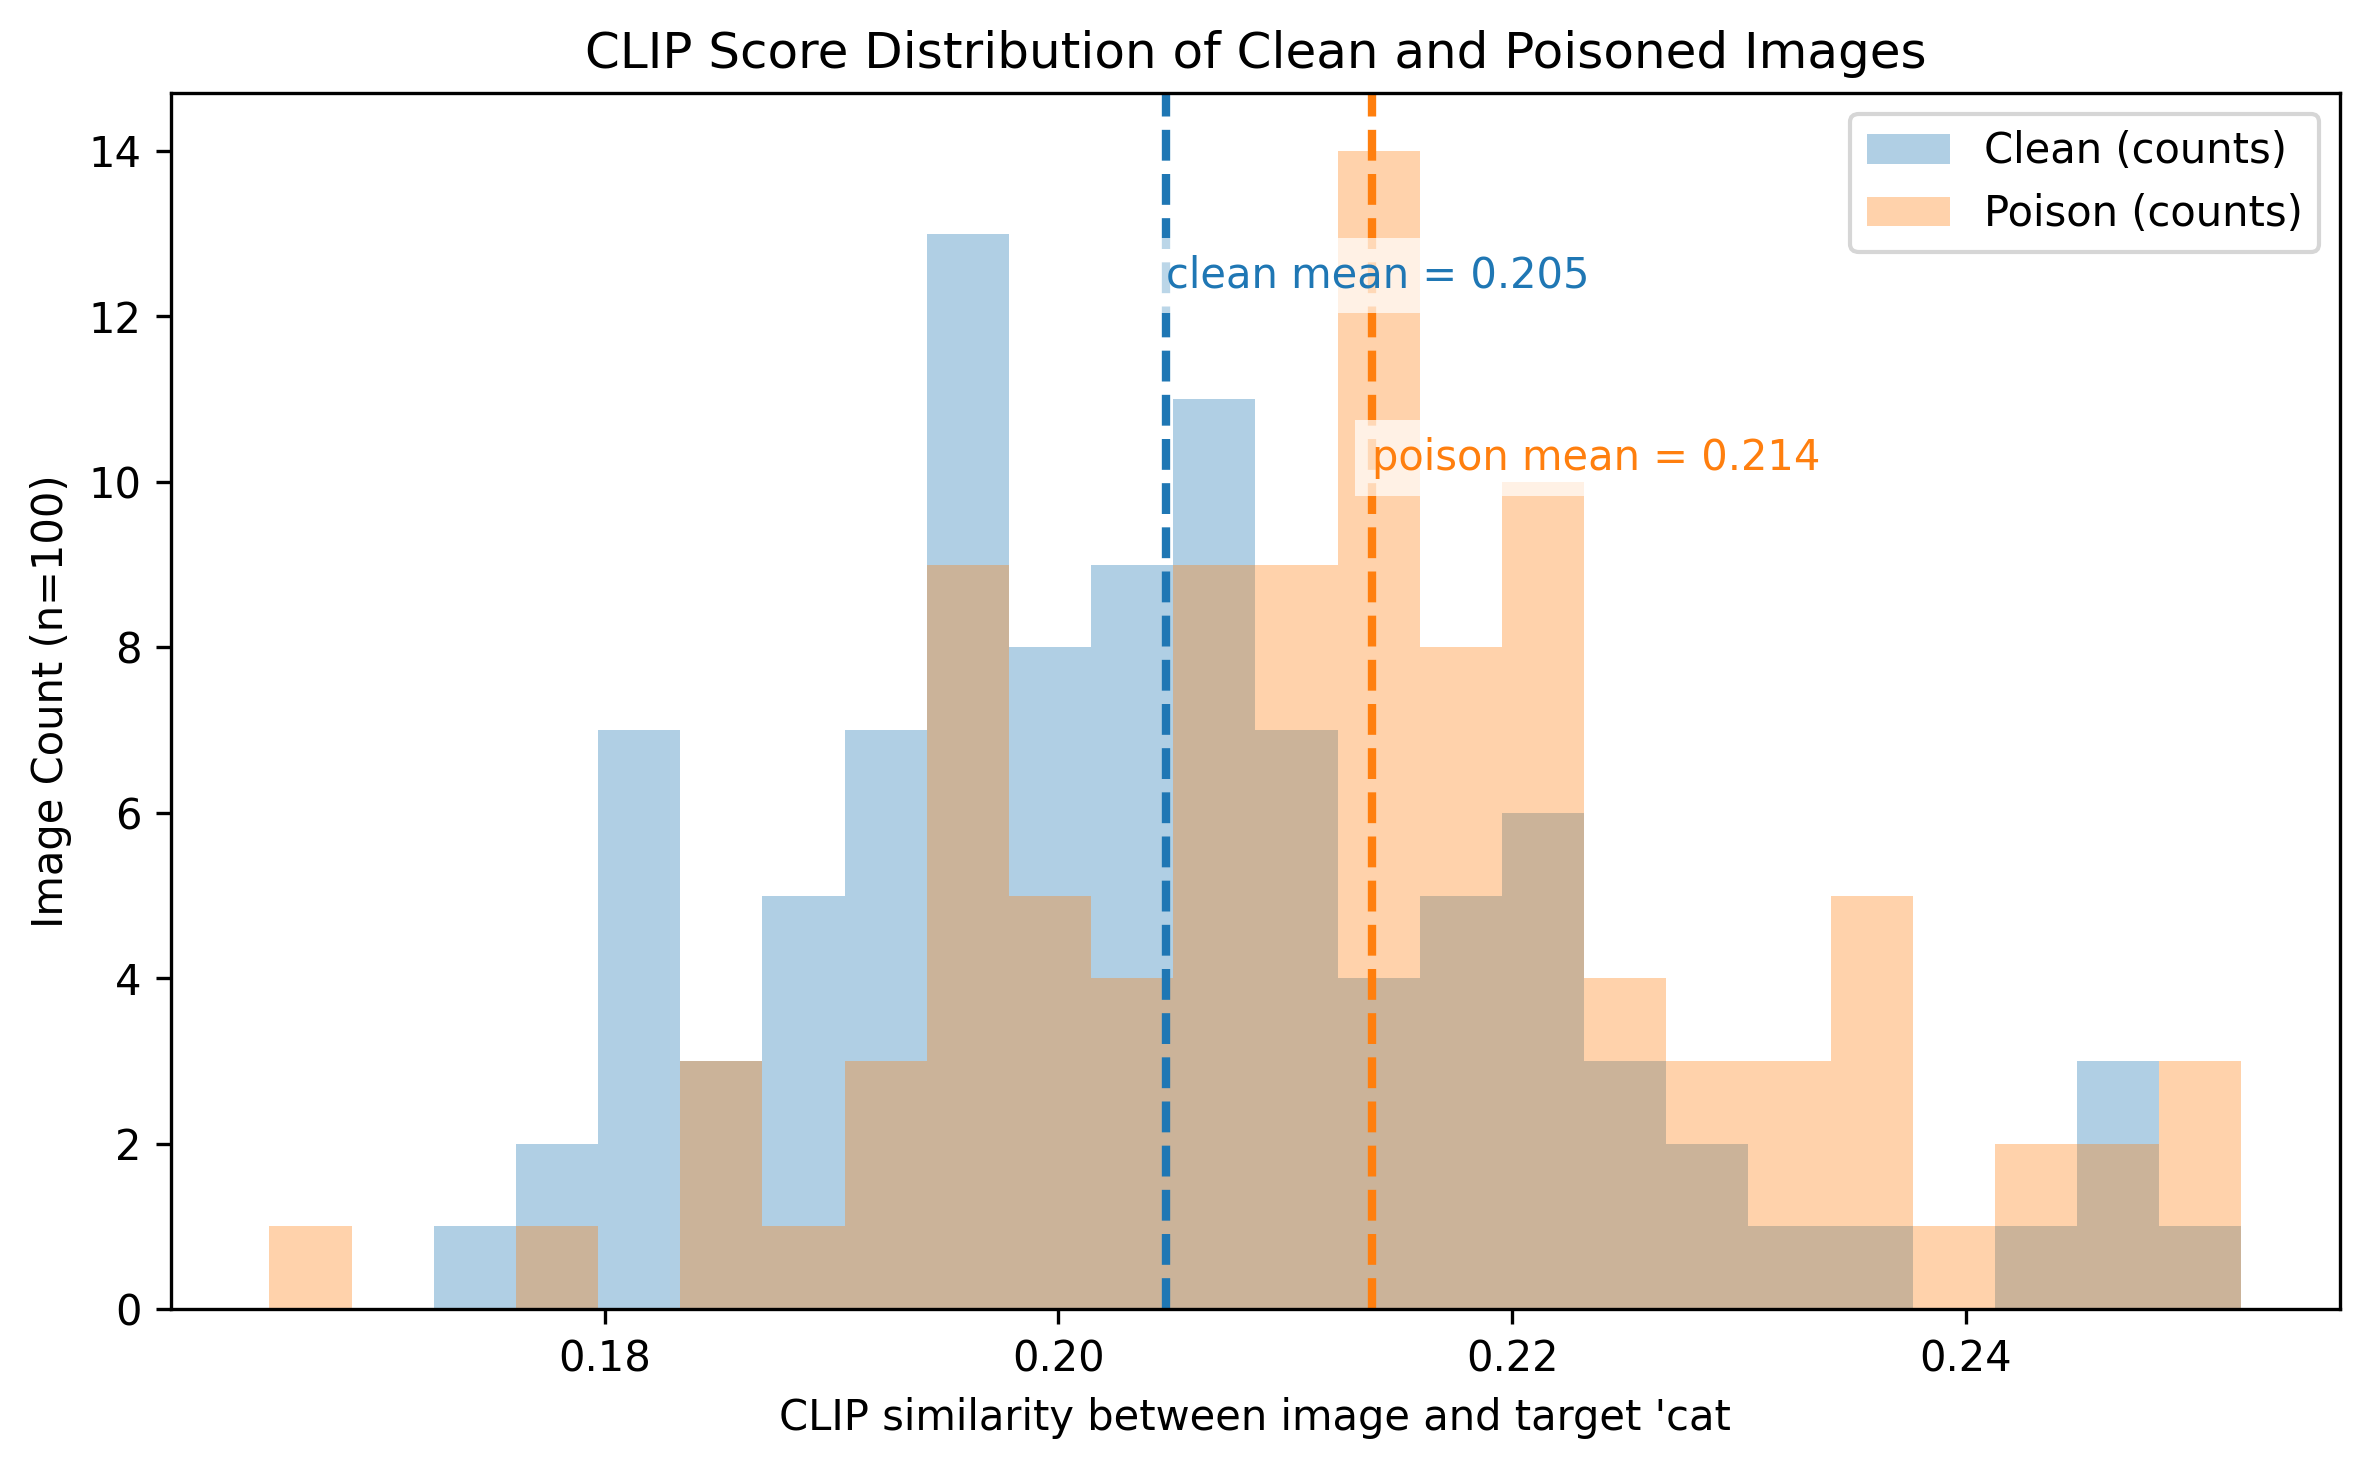
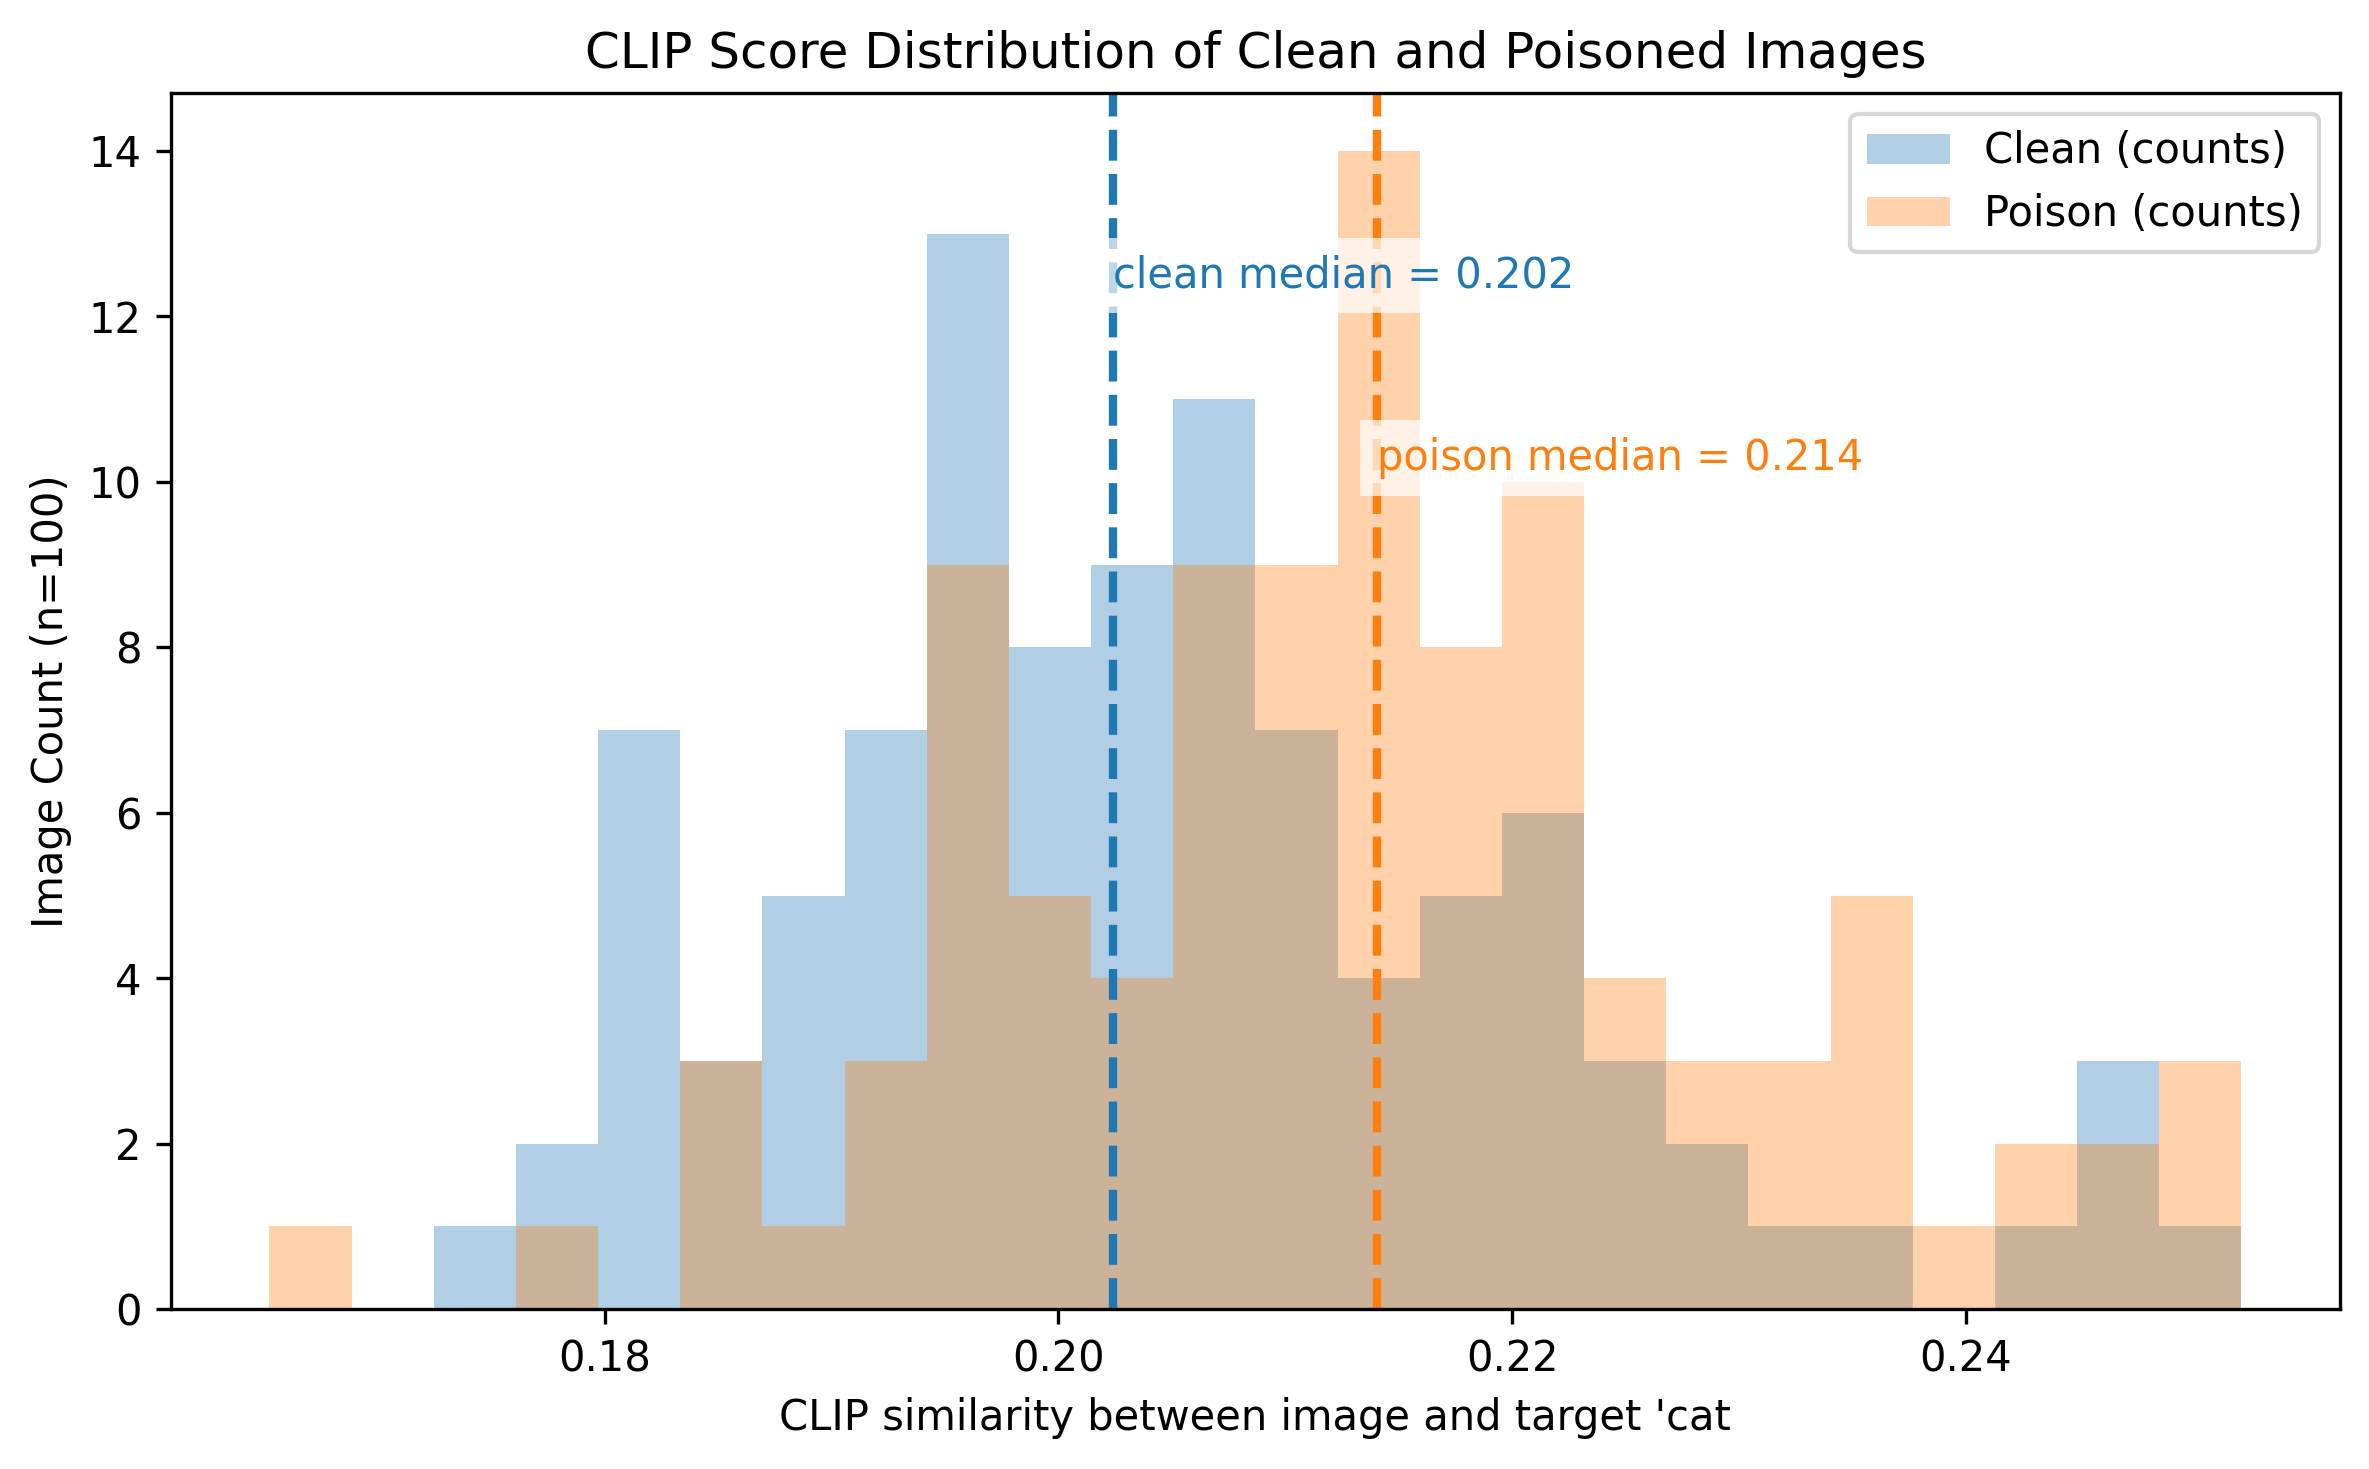
clip test scores

Changed region(s): [[0.4686, 0.0613, 0.7809, 0.8884]]

diff --git a/nightshade/clip_test.py b/nightshade/clip_test.py
@@ -27,6 +27,29 @@ def load_paths(folder):
         key=lambda x: int(os.path.splitext(os.path.basename(x))[0])
     )
 
+def compute_significance(clean_scores, poison_scores):
+    clean_scores = np.array(clean_scores)
+    poison_scores = np.array(poison_scores)
+
+    # KS test
+    ks_stat, ks_p = ks_2samp(clean_scores, poison_scores)
+
+    # Cohen's d 
+    diff = poison_scores - clean_scores
+    pooled_std = np.std(diff) if np.std(diff) != 0 else 1e-8
+    cohens_d = np.mean(diff) / pooled_std
+
+    print("\n=== Statistical Significance ===")
+    print(f"KS statistic: {ks_stat:.4f}, p-value: {ks_p:.4e}")
+    print(f"Cohen's d (effect size): {cohens_d:.4f}")
+
+    if ks_p < 0.05:
+        print("Significant distribution shift (KS test)")
+    else:
+        print("No significant distribution shift (KS test)")
+
+    return ks_stat, ks_p, cohens_d
+
 
 def plot(clean_scores, poison_scores, save_dir="results", sort=True):
 
@@ -34,6 +57,7 @@ def plot(clean_scores, poison_scores, save_dir="results", sort=True):
 
     clean_scores = np.array(clean_scores)
     poison_scores = np.array(poison_scores)
+    compute_significance(clean_scores, poison_scores)
 
     delta = poison_scores - clean_scores
 
@@ -48,7 +72,6 @@ def plot(clean_scores, poison_scores, save_dir="results", sort=True):
     plt.figure(figsize=(10, 6))
     plt.style.use("default")
 
-    # draw connecting lines
     for i in range(len(idx)):
         color = "#2ca02c" if delta[i] > 0 else "#d62728"
         plt.plot(
@@ -62,7 +85,8 @@ def plot(clean_scores, poison_scores, save_dir="results", sort=True):
     plt.scatter(clean_scores, idx, color="#1f77b4", s=40, label="clean → target", zorder=3)
     plt.scatter(poison_scores, idx, color="#ff7f0e", s=40, label="poison → target", zorder=3)
 
-    plt.axvline(x=np.mean(clean_scores), linestyle="--", color="gray", alpha=0.5)
+    # MEDIAN LINE (was mean)
+    plt.axvline(x=np.median(clean_scores), linestyle="--", color="gray", alpha=0.5)
 
     plt.xlabel("CLIP similarity of image to target 'cat'", fontsize=12)
     plt.ylabel("Samples (sorted by effect)" if sort else "Samples", fontsize=12)
@@ -92,6 +116,7 @@ def plot(clean_scores, poison_scores, save_dir="results", sort=True):
 
     print(f"Saved: {save_path}")
 
+
 def plot_histogram(clean_scores, poison_scores, save_dir="results"):
     os.makedirs(save_dir, exist_ok=True)
 
@@ -109,17 +134,17 @@ def plot_histogram(clean_scores, poison_scores, save_dir="results"):
     plt.hist(clean_scores, bins=bins, alpha=0.35, color="#1f77b4", label="Clean (counts)")
     plt.hist(poison_scores, bins=bins, alpha=0.35, color="#ff7f0e", label="Poison (counts)")
 
-    # --- means ---
-    clean_mean = clean_scores.mean()
-    poison_mean = poison_scores.mean()
+    # --- MEDIANS (was mean) ---
+    clean_median = np.median(clean_scores)
+    poison_median = np.median(poison_scores)
 
-    plt.axvline(clean_mean, linestyle="--", color="#1f77b4", linewidth=2)
-    plt.axvline(poison_mean, linestyle="--", color="#ff7f0e", linewidth=2)
+    plt.axvline(clean_median, linestyle="--", color="#1f77b4", linewidth=2)
+    plt.axvline(poison_median, linestyle="--", color="#ff7f0e", linewidth=2)
 
     plt.text(
-        clean_mean,
+        clean_median,
         plt.ylim()[1] * 0.85,
-        f"clean mean = {clean_mean:.3f}",
+        f"clean median = {clean_median:.3f}",
         color="#1f77b4",
         rotation=0,
         ha="left",
@@ -128,9 +153,9 @@ def plot_histogram(clean_scores, poison_scores, save_dir="results"):
     )
 
     plt.text(
-        poison_mean,
+        poison_median,
         plt.ylim()[1] * 0.70,
-        f"poison mean = {poison_mean:.3f}",
+        f"poison median = {poison_median:.3f}",
         color="#ff7f0e",
         rotation=0,
         ha="left",
@@ -138,8 +163,6 @@ def plot_histogram(clean_scores, poison_scores, save_dir="results"):
         bbox=dict(facecolor="white", edgecolor="none", alpha=0.7)
     )
 
-
-    # --- axes ---
     plt.xlabel("CLIP similarity between image and target 'cat")
     plt.ylabel("Image Count (n=100)")
     plt.title("CLIP Score Distribution of Clean and Poisoned Images")
@@ -152,6 +175,7 @@ def plot_histogram(clean_scores, poison_scores, save_dir="results"):
     plt.close()
 
     print(f"Saved: {save_path}")
+
 
 def run(clean_folder, poison_folder, target_text, device="cuda"):
     device = "cuda" if torch.cuda.is_available() else "cpu"
@@ -194,14 +218,13 @@ def run(clean_folder, poison_folder, target_text, device="cuda"):
     poison_scores = np.array(poison_scores)
 
     print("\n=== CLIP Evaluation ===")
-    print("Avg clean → target:", clean_scores.mean())
-    print("Avg poison → target:", poison_scores.mean())
-    print("Improvement:", (poison_scores - clean_scores).mean())
+    print("Median clean → target:", np.median(clean_scores))
+    print("Median poison → target:", np.median(poison_scores))
+    print("Median improvement:", np.median(poison_scores - clean_scores))
     print("Fraction improved:", (poison_scores > clean_scores).mean())
 
     plot(clean_scores, poison_scores)
     plot_histogram(clean_scores, poison_scores)
-    compute_significance(clean_scores, poison_scores)
 
 
 if __name__ == "__main__":
